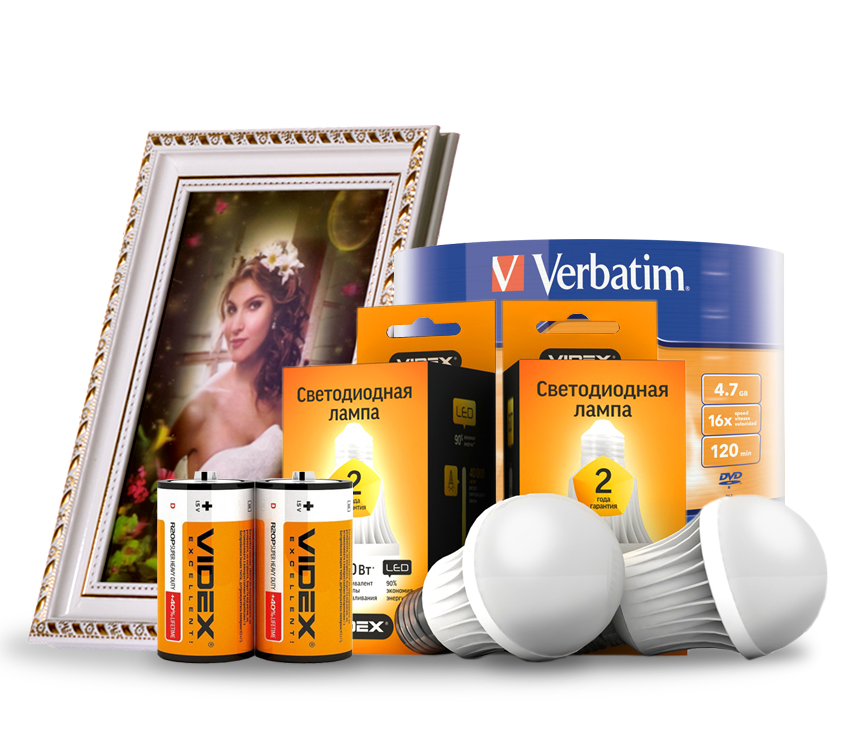
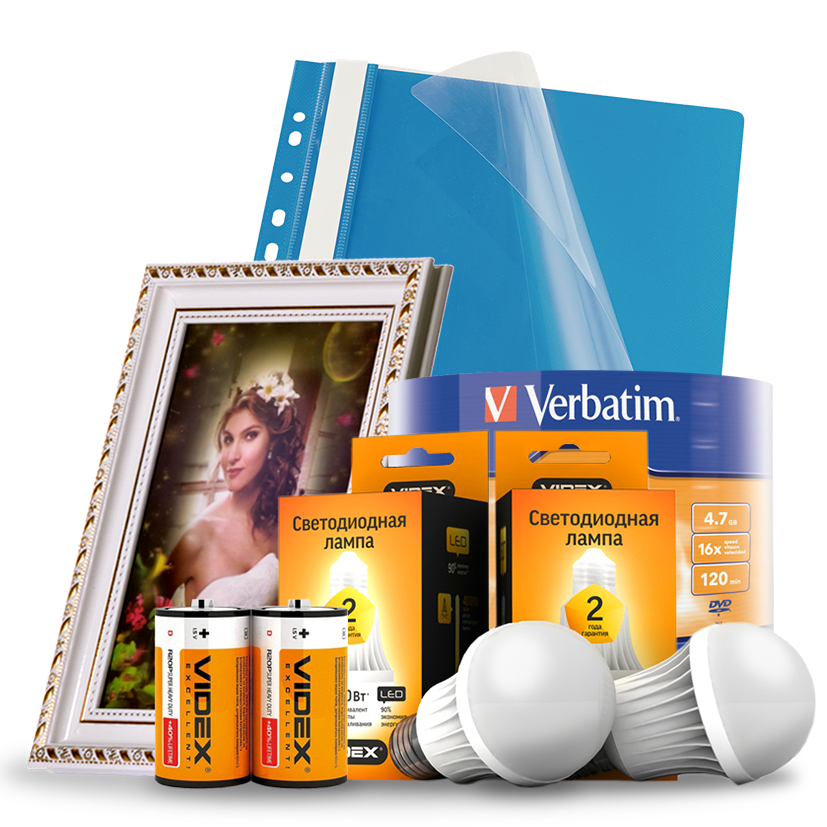
edit pages for publish

diff --git a/src/components/pages/home/carousel.js b/src/components/pages/home/carousel.js
@@ -39,6 +39,12 @@ const Carousel = () => {
       data-bs-slide-to="4"
       aria-label="Slide 5"
     ></button>
+    <button
+      type="button"
+      data-bs-target="#carouselBasicExample"
+      data-bs-slide-to="5"
+      aria-label="Slide 6"
+    ></button>
   </div>
 
   <div className="carousel-inner">
@@ -82,11 +88,11 @@ const Carousel = () => {
             <div className="row">
                 {/* Є картинка на великих, прихована тільки на sm */}
                 <div className="d-sm-none d-none d-md-block">
-                    <img src="/images/slider/img2.png" style={{width:"60%"}}/>
+                    <img src="/images/slider/img2.png" style={{width:"50%"}}/>
                 </div>
                 {/* Є картинка тільки на sm */}
                 <div className="d-none d-sm-block d-md-none">
-                    <img src="/images/slider/img2.png" style={{width:"50%"}}/>
+                    <img src="/images/slider/img2.png" style={{width:"45%"}}/>
                 </div>
                 {/* Є картинка тільки на xs */}
                 <div className="d-block d-sm-none">
@@ -114,11 +120,11 @@ const Carousel = () => {
             <div className="row">
                 {/* Є картинка на великих, прихована тільки на sm */}
                 <div className="d-sm-none d-none d-md-block">
-                    <img src="/images/slider/img3.png" style={{width:"60%"}}/>
+                    <img src="/images/slider/img3.png" style={{width:"50%"}}/>
                 </div>
                 {/* Є картинка тільки на sm */}
                 <div className="d-none d-sm-block d-md-none">
-                    <img src="/images/slider/img3.png" style={{width:"50%"}}/>
+                    <img src="/images/slider/img3.png" style={{width:"45%"}}/>
                 </div>
                 {/* Є картинка тільки на xs */}
                 <div className="d-block d-sm-none">
@@ -150,11 +156,11 @@ const Carousel = () => {
                 </div>
                 {/* Є картинка тільки на sm */}
                 <div className="d-none d-sm-block d-md-none">
-                    <img src="/images/slider/img4.png" style={{width:"40%"}}/>
+                    <img src="/images/slider/img4.png" style={{width:"45%"}}/>
                 </div>
                 {/* Є картинка тільки на xs */}
                 <div className="d-block d-sm-none">
-                    <img src="/images/slider/img4.png" style={{width:"30%"}}/>
+                    <img src="/images/slider/img4.png" style={{width:"40%"}}/>
                 </div>
                 
                 {/*Заголовок і опис на всіх, крім xs */}
@@ -178,11 +184,11 @@ const Carousel = () => {
             <div className="row">
                 {/* Є картинка на великих, прихована тільки на sm */}
                 <div className="d-sm-none d-none d-md-block">
-                    <img src="/images/slider/img5.png" style={{width:"60%"}}/>
+                    <img src="/images/slider/img5.png" style={{width:"50%"}}/>
                 </div>
                 {/* Є картинка тільки на sm */}
                 <div className="d-none d-sm-block d-md-none">
-                    <img src="/images/slider/img5.png" style={{width:"50%"}}/>
+                    <img src="/images/slider/img5.png" style={{width:"40%"}}/>
                 </div>
                 {/* Є картинка тільки на xs */}
                 <div className="d-block d-sm-none">
@@ -198,6 +204,37 @@ const Carousel = () => {
                 {/*Лише заголовок тільки на xs */}
                 <div className="d-block d-sm-none">
                     <h4>Продаж</h4>
+                </div>
+            </div>
+      </div>
+    </div>
+
+    {/* Слайд 6 */}
+    <div className="carousel-item">
+      <img src="/images/slider/bg6.jpg" className="d-block w-100" alt="Backgroung slide 6"/>
+      <div className="carousel-caption" style={{ textShadow: "4px 4px 10px #000"}}>
+            <div className="row">
+                {/* Є картинка на великих, прихована тільки на sm */}
+                <div className="d-sm-none d-none d-md-block">
+                    <img src="/images/slider/img7.png" style={{width:"50%"}}/>
+                </div>
+                {/* Є картинка тільки на sm */}
+                <div className="d-none d-sm-block d-md-none">
+                    <img src="/images/slider/img7.png" style={{width:"45%"}}/>
+                </div>
+                {/* Є картинка тільки на xs */}
+                <div className="d-block d-sm-none">
+                    <img src="/images/slider/img7.png" style={{width:"40%"}}/>
+                </div>
+                
+                {/*Заголовок і опис на всіх, крім xs */}
+                <div className="d-none d-sm-block">
+                    <h2>Оцифровка</h2>
+                    <p>Перезапис відеокасет VHS, miniDV на комп'ютер, збереження на флешку...</p>
+                </div>
+                {/*Лише заголовок тільки на xs */}
+                <div className="d-block d-sm-none">
+                    <h4>Оцифровка</h4>
                 </div>
             </div>
       </div>

diff --git a/src/components/pages/comp/carouselComp.js b/src/components/pages/comp/carouselComp.js
@@ -30,6 +30,12 @@ const CarouselComp = () => {
           data-bs-slide-to="2"
           aria-label="Slide 3"
         ></button>
+        <button
+          type="button"
+          data-bs-target="#carouselBasicExample"
+          data-bs-slide-to="3"
+          aria-label="Slide 4"
+        ></button>
       </div>
 
       <div className="carousel-inner">
@@ -88,11 +94,11 @@ const CarouselComp = () => {
             <div className="row">
               {/* Є картинка на великих, прихована тільки на sm */}
               <div className="d-sm-none d-none d-md-block">
-                <img src="/images/slider/cimg2.png" style={{ width: "60%" }} />
+                <img src="/images/slider/cimg2.png" style={{ width: "50%" }} />
               </div>
               {/* Є картинка тільки на sm */}
               <div className="d-none d-sm-block d-md-none">
-                <img src="/images/slider/cimg2.png" style={{ width: "50%" }} />
+                <img src="/images/slider/cimg2.png" style={{ width: "45%" }} />
               </div>
               {/* Є картинка тільки на xs */}
               <div className="d-block d-sm-none">
@@ -130,11 +136,11 @@ const CarouselComp = () => {
             <div className="row">
               {/* Є картинка на великих, прихована тільки на sm */}
               <div className="d-sm-none d-none d-md-block">
-                <img src="/images/slider/cimg3.png" style={{ width: "60%" }} />
+                <img src="/images/slider/cimg3.png" style={{ width: "50%" }} />
               </div>
               {/* Є картинка тільки на sm */}
               <div className="d-none d-sm-block d-md-none">
-                <img src="/images/slider/cimg3.png" style={{ width: "50%" }} />
+                <img src="/images/slider/cimg3.png" style={{ width: "45%" }} />
               </div>
               {/* Є картинка тільки на xs */}
               <div className="d-block d-sm-none">
@@ -156,6 +162,48 @@ const CarouselComp = () => {
             </div>
           </div>
         </div>
+
+        {/* Слайд 4 */}
+        <div className="carousel-item">
+          <img
+            src="/images/slider/bg6.jpg"
+            className="d-block w-100"
+            alt="Backgroung slide 3"
+          />
+          <div
+            className="carousel-caption"
+            style={{ textShadow: "4px 4px 10px #000" }}
+          >
+            <div className="row">
+              {/* Є картинка на великих, прихована тільки на sm */}
+              <div className="d-sm-none d-none d-md-block">
+                <img src="/images/slider/img7.png" style={{ width: "50%" }} />
+              </div>
+              {/* Є картинка тільки на sm */}
+              <div className="d-none d-sm-block d-md-none">
+                <img src="/images/slider/img7.png" style={{ width: "45%" }} />
+              </div>
+              {/* Є картинка тільки на xs */}
+              <div className="d-block d-sm-none">
+                <img src="/images/slider/img7.png" style={{ width: "40%" }} />
+              </div>
+
+              {/*Заголовок і опис на всіх, крім xs */}
+              <div className="d-none d-sm-block">
+                <h2>Оцифровка</h2>
+                <p>Перезапис відеокасет VHS, miniDV <br />
+                    на комп'ютер, збереження на флешку...</p>
+              </div>
+              {/*Лише заголовок тільки на xs */}
+              <div className="d-block d-sm-none">
+                <h4>Оцифровка</h4>
+              </div>
+            </div>
+          </div>
+        </div>
+
+
+
       </div>
       {/*<!-- Inner -->*/}
 

diff --git a/src/components/pages/home/servicecards.js b/src/components/pages/home/servicecards.js
@@ -92,6 +92,29 @@ const ServiceCards = () => {
           <div className="col-9 col-sm-5 col-md-3 m-2 p-2 border bg-light rounded ">
             <div className="card">
               <img
+                src="/images/slider/img6.png"
+                className="card-img-top"
+                alt="Нанесення фото"
+              />
+              <div className="card-body">
+                <h5 className="card-title text-center">Оцифровка касет</h5>
+                <p className="card-text">
+                  Перезапис <br />
+                  відеокасет <br />
+                  VHS <br />
+                  miniDV <br />
+                  на флешку
+                </p>
+                <Link aria-current="page" to="/comp">
+                  <button type="button" class="btn btn-primary">Детальніше...</button>
+                </Link>
+              </div>
+            </div>
+          </div>
+          {/* Картка 5 */}
+          <div className="col-9 col-sm-5 col-md-3 m-2 p-2 border bg-light rounded ">
+            <div className="card">
+              <img
                 src="/images/slider/img4.png"
                 className="card-img-top"
                 alt="Нанесення фото"
@@ -111,7 +134,7 @@ const ServiceCards = () => {
               </div>
             </div>
           </div>
-          {/* Картка 5 */}
+          {/* Картка 6 */}
           <div className="col-9 col-sm-5 col-md-3 m-2 p-2 border bg-light rounded ">
             <div className="card">
               <img
@@ -122,9 +145,7 @@ const ServiceCards = () => {
               <div className="card-body">
                 <h5 className="card-title text-center">Продаж</h5>
                 <p className="card-text">
-                  Фоторамки
-                  <br />
-                  Фотоальбоми <br />
+                  Фоторамки, альбоми <br />
                   Батарейки <br />
                   Диски <br />
                   Канцтовари <br />

diff --git a/src/components/pages/comp/vhs/index.js b/src/components/pages/comp/vhs/index.js
@@ -28,9 +28,9 @@ const Vhs = () => {
 			чи комп'ютері. З часом магнітна плівка може розмагнітитись чи пошкодитись, 
 			а інформація в цифровому вигляді не піддається впливу часу, крім того дедалі менше 
 			користувачів мають можливість переглянути стару відеокасету на відеомагнітофоні.<br/>
-			Ми оцифровуємо відеокасети в MPEG-формат та записуємо відео на флешку. Відео не оброблюємо,
-			а віддаємо лише точну копію Вашої касети.<br/> Переписуємо касети VHS та miniDV.<br/>
-            Мінімальна вартість роботи - ціна перезапису одної години відео, навіть при умові, 
+			Ми оцифровуємо відеокасети в <b> MPEG-формат </b> та записуємо відео <b>на флешку</b>. Відео не оброблюємо,
+			а віддаємо лише точну копію Вашої касети.<br/> Переписуємо касети <b>VHS та miniDV</b>.<br/>
+            <b>Мінімальна вартість</b> роботи - ціна перезапису <b>одної години</b> відео, навіть при умові, 
             що на касеті було менше години. <br/>
             При замовленні оцифровки більше 8 годин відео діє <b> знижка на всю оцифровку</b>.
 		    </p>

diff --git a/src/components/auth/login/index.js b/src/components/auth/login/index.js
@@ -52,6 +52,7 @@ const LoginPage = () => {
     <div className="row">
       <div className="offset-md-4 col-md-4">
         <h2 className="text-center mt-3">Вхід на сайт</h2>
+        <p className="text-center">(для адміністратора)</p>
 
         <Formik
           initialValues={initState}
@@ -60,13 +61,13 @@ const LoginPage = () => {
         >
           <Form>
             <MyTextInput 
-              label="Електронна пошта" 
+              label="Login" 
               id="email" 
               name="email" 
               type="email" />
 
             <MyTextInput
-              label="Пароль"
+              label="Password"
               id="password"
               name="password"
               type="password" />
@@ -74,7 +75,7 @@ const LoginPage = () => {
             <input
               type="submit"
               className="btn btn-primary mt-4"
-              value="Вхід"
+              value="          Enter          "
             ></input>
           </Form>
         </Formik>

diff --git a/src/components/navbar/index.js b/src/components/navbar/index.js
@@ -9,6 +9,10 @@ import { HashLink } from 'react-router-hash-link';
 import { LOG_OUT } from '../../constants/actionTypes';
 import { useNavigate } from "react-router-dom";
 import { logoutservice } from '../../services/logout.service';
+import { FontAwesomeIcon } from "@fortawesome/react-fontawesome";
+import {
+  faLock
+} from "@fortawesome/free-solid-svg-icons";
 
 import { 
   PhotoFnd, 
@@ -416,7 +420,8 @@ const Header = () => {
             {!isAuth ? (
               <Nav onClick={() => setNavExpanded(false)}>
                 <Link className="nav-link" to="/login">
-                  Вхід
+                  {/* Вхід */}
+                  <i> <FontAwesomeIcon icon={faLock} /></i>
                 </Link>
                 {/* <Link className="nav-link" to="/register">
                   Реєстрація
